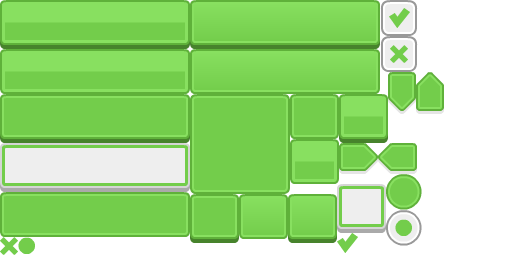
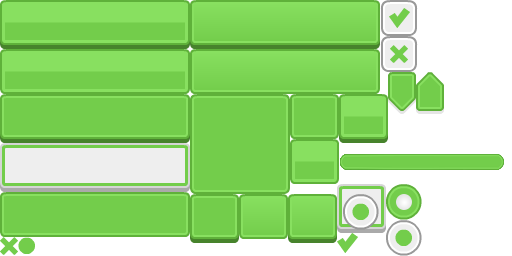
Volume in settings done
Volume full equip, functional Music and FX

Changed region(s): [[0.6562, 0.5312, 1.0, 1.0]]

diff --git a/KIKIME/Motor2D/j1Gui.cpp b/KIKIME/Motor2D/j1Gui.cpp
@@ -126,6 +126,24 @@ bool j1Gui::Awake(pugi::xml_node& conf)
 	slider_pointer_button.visible = true;
 	slider_pointer_button.color = GREEN;
 
+	//Creating slider image
+	n = conf.child("green").child("slider");
+	for (SDL_Rect &r : slider_button.rect)
+	{
+		r.x = n.attribute("x").as_int();
+		r.y = n.attribute("y").as_int();
+		r.w = n.attribute("width").as_int();
+		r.h = n.attribute("height").as_int();
+		if (n.next_sibling("slider"))
+			n = n.next_sibling("slider");
+	}
+	slider_button.type = UIType::BUTTON;
+	slider_button.action = NO_ACTION;
+	slider_button.parent = nullptr;
+	slider_button.callback = nullptr;
+	slider_button.visible = true;
+	slider_button.color = GREEN;
+
 	// Creating a yellow button
 	n = conf.child("yellow").child("button");
 	for (SDL_Rect &r : yellow_button.rect)
@@ -237,13 +255,34 @@ bool j1Gui::Start()
 
 	//Settings window
 	settings_window = (Image*)CreateElement(IMAGE, { App->render->viewport.w / 2 - 250, App->render->viewport.h / 2 - 400 }, SDL_Rect({ 1000,1000,500,800 }), nullptr, NO_ACTION, (j1Module*)App, main_menu_window, false);
-	Button* settings_to_main = (Button*)CreateButton({ 0,0 }, green_button, SETTINGS, nullptr, settings_window);
+	Button* settings_to_main = (Button*)CreateButton({ 0,0 }, red_button, SETTINGS, nullptr, settings_window);
 	Label* lsettings_to_main = (Label*)CreateElement(LABEL, iPoint(0, 0), { 0,0,0,0 }, "MAIN MENU", NO_ACTION, nullptr, settings_to_main);
-	settings_to_main->Center(0, 40);
+	settings_to_main->Center(0, 70);
 	lsettings_to_main->Center();
+	
+	//Music Volume
+	Button* volume_button = (Button*)CreateButton({ 0,-150 }, green_button, NO_ACTION, nullptr, settings_to_main);
+	Label* lvolume_button = (Label*)CreateElement(LABEL, iPoint(0, 0), { 0,0,0,0 }, "MUSIC VOLUME", NO_ACTION, nullptr, volume_button);
+	volume_button->CenterX();
+	lvolume_button->Center();
 
-	Button* slider_button = (Button*)CreateButton({ 0,-50 }, slider_pointer_button, CHANGE_VOLUME, nullptr, settings_to_main);
-	slider_button->movable = true;
+	Button* volume_slider = (Button*)CreateButton({ 0,volume_button->rect[IDLE].h+20 }, slider_button, NO_ACTION, nullptr, volume_button);
+	Button* volume_slider_button = (Button*)CreateButton({ SDL_MIX_MAXVOLUME,0 }, slider_pointer_button, CHANGE_VOLUME, nullptr, volume_slider);
+	volume_slider->CenterX();
+	volume_slider_button->movable = true;
+
+	//FX Volume
+	Button* fx_volume_button = (Button*)CreateButton({ 0,-300 }, green_button, NO_ACTION, nullptr, settings_to_main);
+	Label* fx_lvolume_button = (Label*)CreateElement(LABEL, iPoint(0, 0), { 0,0,0,0 }, "FX VOLUME", NO_ACTION, nullptr, fx_volume_button);
+	fx_volume_button->CenterX();
+	fx_lvolume_button->Center();
+
+	Button* fx_slider = (Button*)CreateButton({ 0,fx_volume_button->rect[IDLE].h + 20 }, slider_button, NO_ACTION, nullptr, fx_volume_button);
+	Button* fx_slider_button = (Button*)CreateButton({ SDL_MIX_MAXVOLUME,0 }, slider_pointer_button, CHANGE_VOLUME_FX, nullptr, fx_slider);
+	fx_slider->CenterX();
+	fx_slider_button->movable = true;
+	//slider_button->CenterX();
+
 
 	//Image* greend = (Image*)CreateElement(IMAGE, iPoint(0, 0), App->entitymanager->green_diamond.idle.GetCurrentFrame(), nullptr, INFO, nullptr, settings_window);
 	//Label* gl = (Label*)CreateElement(LABEL, iPoint(0, 0), { 0,0,0,0 }, "X 50", INFO, nullptr, greend);
@@ -297,7 +336,6 @@ bool j1Gui::Start()
 	Label* pl_name = (Label*)CreateElement(LABEL, iPoint(App->entitymanager->player_ref->position.x + App->entitymanager->player_ref->rect.w / 2, App->entitymanager->player_ref->position.y - 50), { 0,0,0,0 }, "--Kikime--", PLAYER_NAME, nullptr, in_game_ui);
 	//////////IN GAME UI FINISH///////////////
 
-	//Not hardcoded
 	game_over = (Image*)CreateElement(IMAGE, iPoint(App->render->viewport.w / 2 - game_over_image.rect[IDLE].w / 2, App->render->viewport.h / 2 - game_over_image.rect[IDLE].h / 2), game_over_image.rect[IDLE], nullptr, NO_ACTION, nullptr, nullptr, false);
 	last_death = (Image*)CreateElement(IMAGE, iPoint(-20, -20), last_death_image.rect[IDLE], nullptr, LAST_DEATH, nullptr, nullptr, true);
 
@@ -352,6 +390,7 @@ bool j1Gui::PreUpdate()
 		if (item->data->visible) {
 
 			item->data->PreUpdate();
+			//item->data->is_moving = false;
 			has_changed = HandleInput(item->data);
 			if (has_changed) break;
 		}
@@ -401,7 +440,7 @@ bool j1Gui::PostUpdate()
 			}
 
 			item->data->Draw(sprites);
-			//if (App->debug->show_colliders) item->data->DrawRect();
+			if (App->debug->show_colliders) item->data->DrawRect();
 		}
 		item = item->next;
 	}
@@ -520,18 +559,22 @@ bool j1Gui::HandleInput(UIElement* element)
 		break;
 	}
 
-	if (element->is_moving && element->movable) {
-
-		if (element->action == CHANGE_VOLUME && element->initial_pos.x >= -1 && element->initial_pos.x <= 129) {
+	if (element->is_moving && element->movable) 
+	{
+		if (element->action == CHANGE_VOLUME || element->action == CHANGE_VOLUME_FX) {
+			element->state = HOVER;
 			element->initial_pos.x = mouse.x - mouseClick.x + startDraging.x;
-			if (element->initial_pos.x <= -1) element->initial_pos.x = 0;
-			else if (element->initial_pos.x >= 129) element->initial_pos.x = 128;
+
+			if (element->initial_pos.x <= - 1) element->initial_pos.x = 0;
+			else if (element->initial_pos.x >= SDL_MIX_MAXVOLUME+ 1) element->initial_pos.x = SDL_MIX_MAXVOLUME;
+
+			if (element->action == CHANGE_VOLUME) App->ChangeMusicVolume(element->initial_pos.x);
+			else App->ChangeFXVolume(element->initial_pos.x );
 		}
 		else element->initial_pos = mouse - mouseClick + startDraging;
-
 	}
 
-	return is_changing;
+	return is_changing && element->type != LABEL;
 }
 
 // const getter for atlas

diff --git a/KIKIME/Motor2D/Button.cpp b/KIKIME/Motor2D/Button.cpp
@@ -50,10 +50,6 @@ void Button::HandleAction()
 	case EXIT_GAME:
 		App->Exit();
 		break;
-	case CHANGE_VOLUME:
-		App->ChangeMusicVolume(initial_pos.x);
-		//initial_pos.x += 20;
-		break;
 	case CREDITS:
 		App->ShowCredits();
 		break;

diff --git a/KIKIME/Motor2D/j1Gui.h b/KIKIME/Motor2D/j1Gui.h
@@ -80,6 +80,7 @@ private:
 	Button				yellow_button;
 	Button				grey_button;
 	Button				slider_pointer_button;
+	Button				slider_button;
 
 	Image				game_over_image;
 	Image				last_death_image;

diff --git a/KIKIME/Motor2D/j1App.h b/KIKIME/Motor2D/j1App.h
@@ -90,6 +90,8 @@ public:
 
 	void ChangeMusicVolume(int value);
 
+	void ChangeFXVolume(int value);
+
 	//Saving iteration ONLY SAVING ACTIVE MODULES
 	bool SaveGameFile();
 

diff --git a/KIKIME/Motor2D/j1App.cpp b/KIKIME/Motor2D/j1App.cpp
@@ -595,4 +595,9 @@ void j1App::ChangeMusicVolume(int value)
 	Mix_VolumeMusic(value);
 }
 
+void j1App::ChangeFXVolume(int value)
+{
+	Mix_Volume(-1,value);
+}
+
 

diff --git a/KIKIME/Motor2D/UIElement.h b/KIKIME/Motor2D/UIElement.h
@@ -38,6 +38,7 @@ enum ActionType
 	MAIN_MENU,
 	SETTINGS,
 	CHANGE_VOLUME,
+	CHANGE_VOLUME_FX,
 	EXIT_GAME,
 	CREDITS,
 	WEBSITE,
